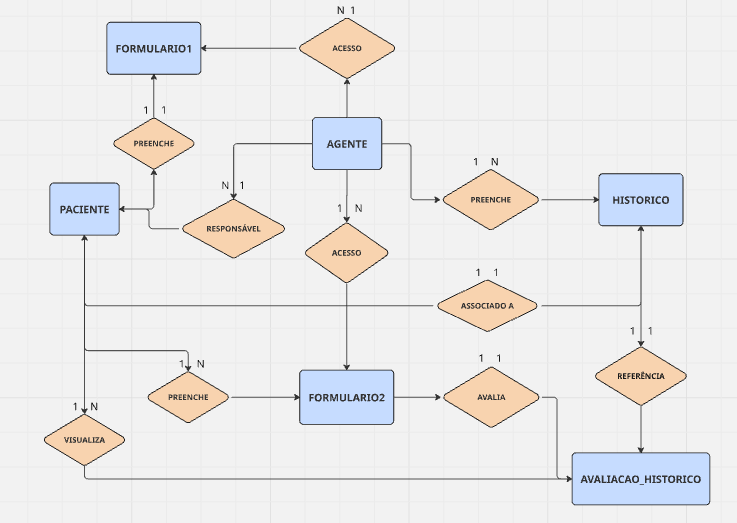
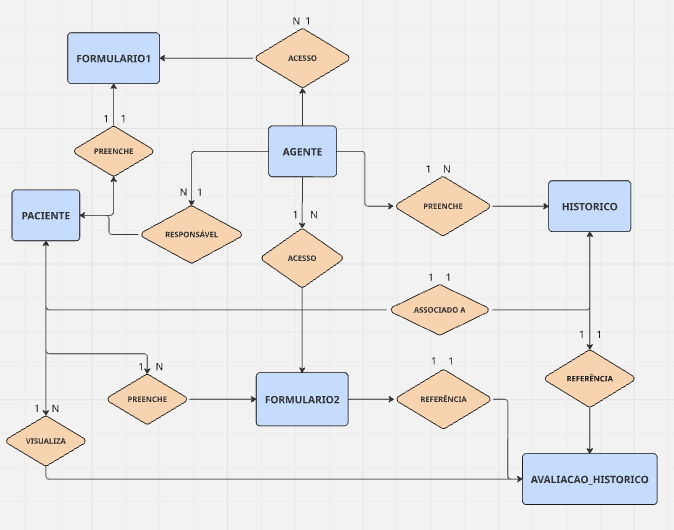
docs: alterando detalhes na documentação e sentido lógico.

diff --git a/documentos/wad.md b/documentos/wad.md
@@ -584,7 +584,7 @@ erDiagram
         int formulario2_id FK "FK para FORMULARIO2"
         int paciente_id FK "FK para PACIENTE"
         int agente_id FK "FK para AGENTE"
-        int prontuario_id FK "FK para PRONTUARIO"
+        int historico_id FK "FK para HISTORICO"
         number avaliacao "Avaliação (1 a 5 estrelas)"
         varchar observacao_paciente "Observações do paciente"
     }
@@ -592,13 +592,14 @@ erDiagram
     %% Relacionamentos
     AGENTE ||--o{ PACIENTE : "responsável por"
     AGENTE ||--o{ FORMULARIO2 : "acesso"
-    AGENTE ||--o{ PRONTUARIO : "preenche prontuário"
+    AGENTE ||--o{ HISTORICO : "preenche prontuário"
     PACIENTE ||--o{ FORMULARIO1 : "preenche"
     PACIENTE ||--o{ FORMULARIO2 : "preenche"
-    PACIENTE ||--o{ PRONTUARIO : "associado ao"
+    PACIENTE ||--o{ HISTORICO : "associado ao"
     PACIENTE ||--o{ AVALIACAO_HISTORICO : "visualiza avaliação"
-    FORMULARIO2 ||--o{ AVALIACAO_HISTORICO : "avalia"
-    PRONTUARIO ||--o{ AVALIACAO_HISTORICO : "referenciado na avaliação"
+    FORMULARIO2 ||--o{ AVALIACAO_HISTORICO : "referenciado na avaliação"
+    HISTORICO ||--o{ AVALIACAO_HISTORICO : "referenciado na avaliação"
+    FORMULARIO1 ||--o{ HISTORICO : "referência no histórico"
 
 ```
 
